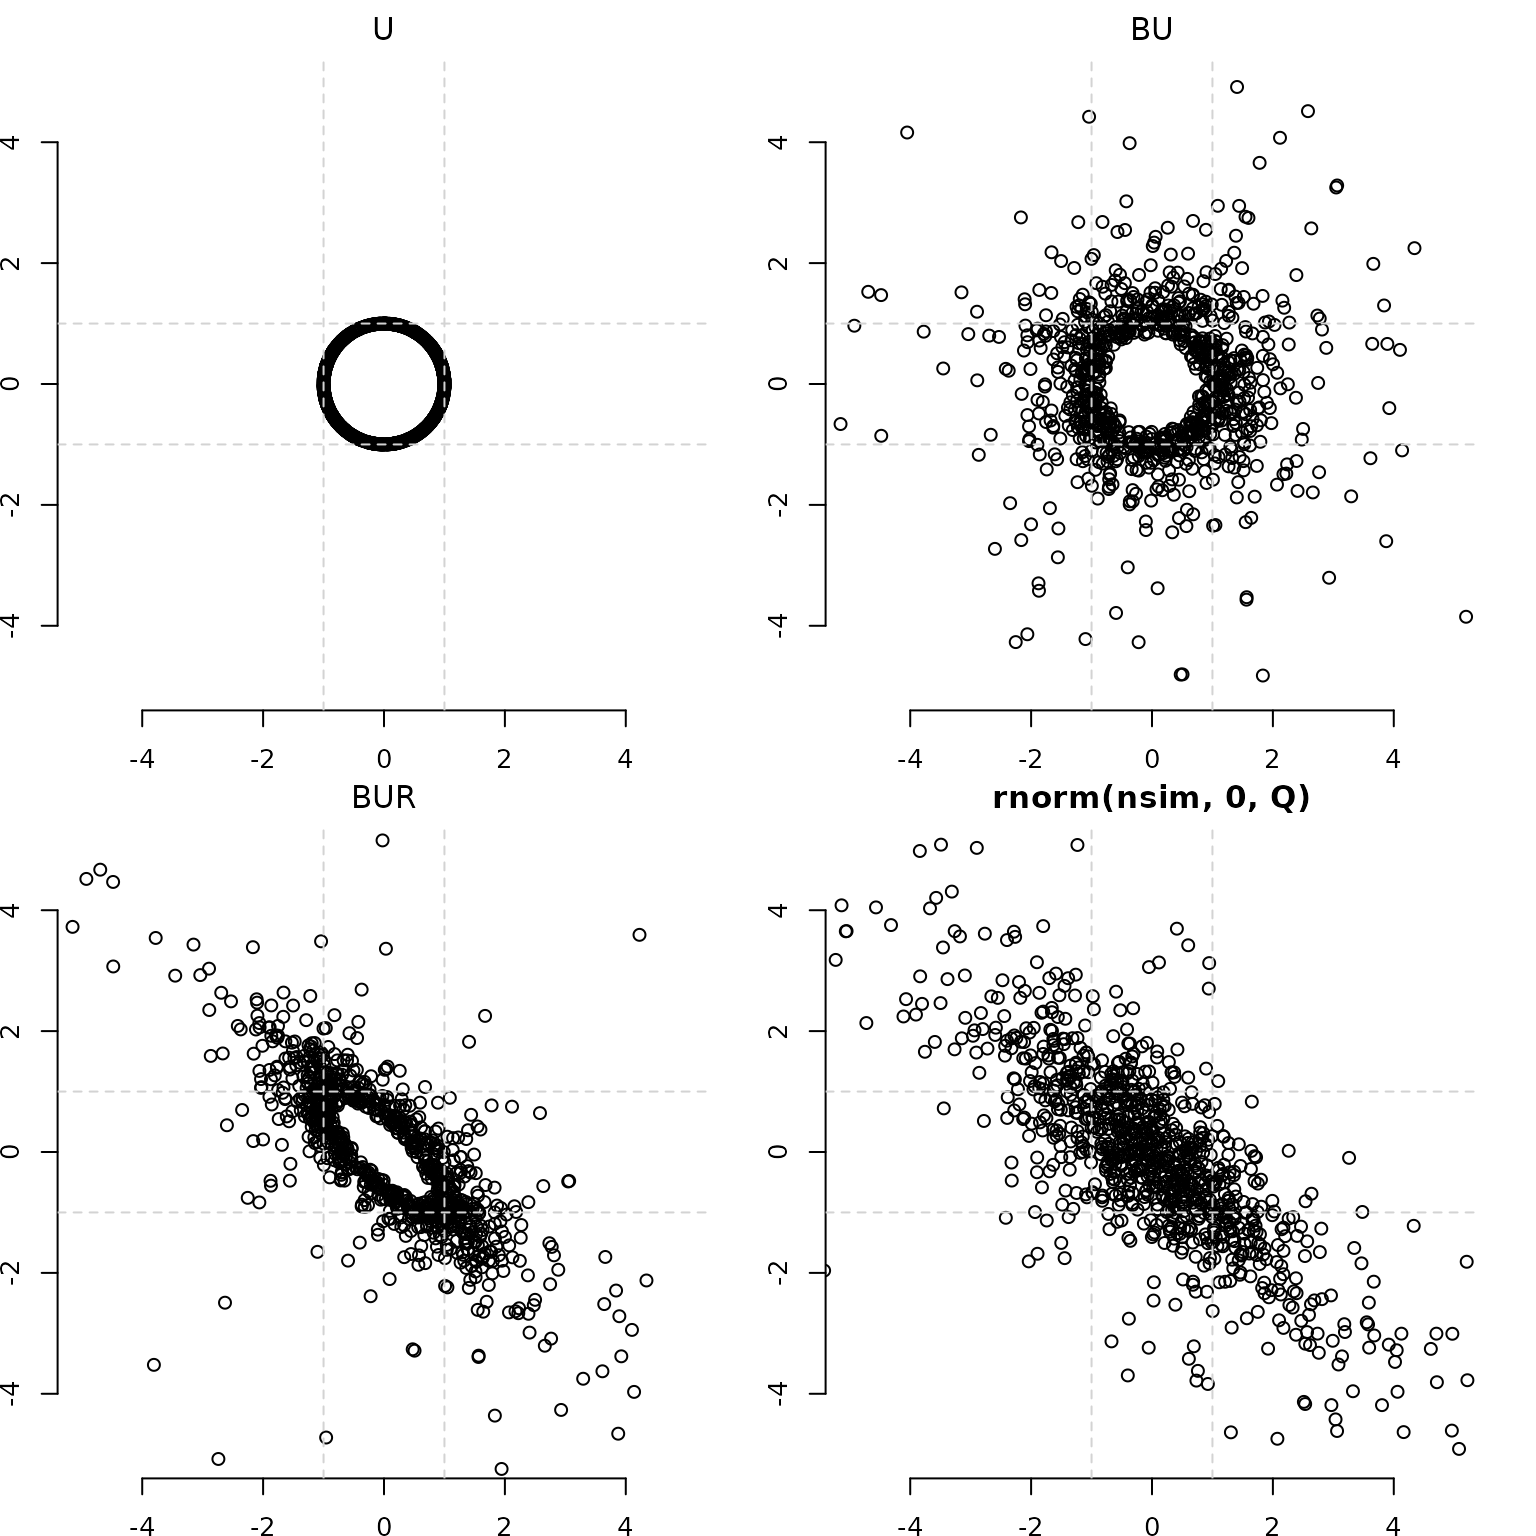
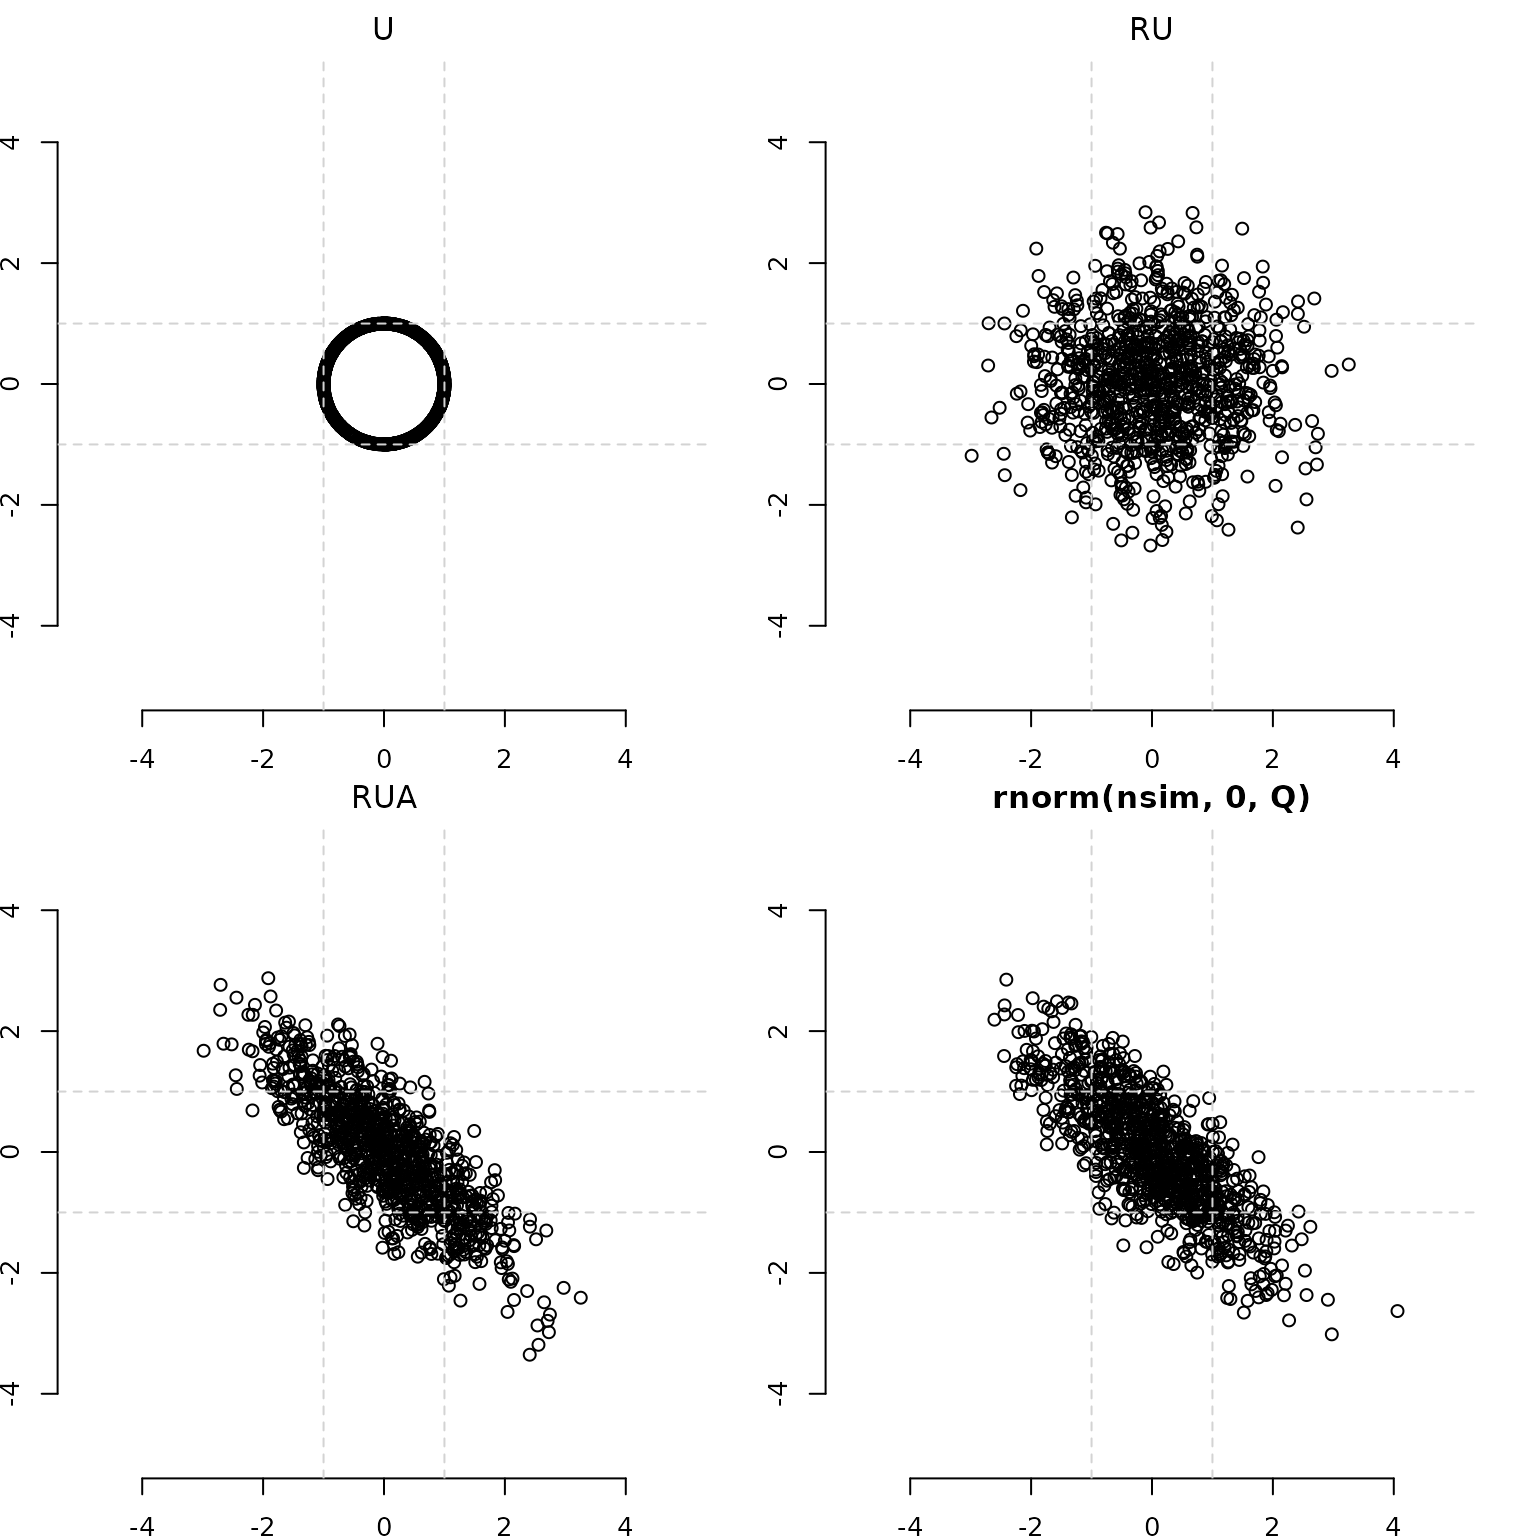
Deploying to gh-pages from @ swihart/mvpd@4e4889bfcb588e43ef75f660649b746a2501ddb2 🚀

diff --git a/articles/intro1.html b/articles/intro1.html
@@ -74,23 +74,20 @@ End with a Bivariate Normal.</h3>
 <ul>
 <li>U is a <code>n x 2</code> matrix containing n random draws from the
 uniform circle.</li>
-<li>UA is the result of the matrix multiplication between
-<code>n x 2</code> U and <code>2 x 2</code> A, the Cholesky
+<li>When R
+<math display="inline" xmlns="http://www.w3.org/1998/Math/MathML"><semantics><mrow><mo>∼</mo><mi>χ</mi></mrow><annotation encoding="application/x-tex">\sim \chi</annotation></semantics></math>(df=2)
+distribution, RU is a roughly spherical scatterplot</li>
+<li>RUA is the result of the matrix multiplication between
+<code>n x 2</code> RU and <code>2 x 2</code> A, the Cholesky
 decomposition of a <code>2x2</code> matrix Q.
 <ul>
 <li>A makes a circle (U) into an ellipse (UA)</li>
 <li>A can be thought of as a “square root” of a matrix. A’A = Q.</li>
 </ul>
 </li>
-<li>When R
-<math display="inline" xmlns="http://www.w3.org/1998/Math/MathML"><semantics><mrow><mo>∼</mo><mi>χ</mi></mrow><annotation encoding="application/x-tex">\sim \chi</annotation></semantics></math>(df=2)
-distribution, RUA is the bivariate normal distribution G(0,Q),
-Equivalently
-<ul>
+<li>RUA is the bivariate normal distribution G(0,Q), Equivalently</li>
 <li>
 <code>mvpd</code> uses G for Gaussian</li>
-</ul>
-</li>
 </ul>
 <!-- Graveyard / density of code? --><p><!-- you used this to  trouble shoot the RNG problem -->
 <!-- ultimately found in libstable4u --></p>

diff --git a/articles/deep_dive_kolm.html b/articles/deep_dive_kolm.html
@@ -341,7 +341,7 @@ the denominators, and then take the square root of that sum.</p>
 <span><span class="va">rkdraw</span> <span class="op">&lt;-</span> <span class="fu"><a href="../reference/rkolm.html">rkolm</a></span><span class="op">(</span><span class="fl">5e4</span>, nterms<span class="op">=</span><span class="fl">5e2</span><span class="op">)</span></span>
 <span><span class="va">end</span> <span class="op">&lt;-</span> <span class="fu"><a href="https://rdrr.io/r/base/Sys.time.html" class="external-link">Sys.time</a></span><span class="op">(</span><span class="op">)</span></span>
 <span><span class="va">end</span><span class="op">-</span><span class="va">beg</span></span>
-<span><span class="co">#&gt; Time difference of 0.8660669 secs</span></span>
+<span><span class="co">#&gt; Time difference of 0.8614016 secs</span></span>
 <span></span>
 <span><span class="co">## Expected value</span></span>
 <span><span class="fu"><a href="https://rdrr.io/r/base/print.html" class="external-link">print</a></span><span class="op">(</span><span class="fu"><a href="https://rdrr.io/r/base/matrix.html" class="external-link">matrix</a></span><span class="op">(</span><span class="fu"><a href="https://rdrr.io/r/base/c.html" class="external-link">c</a></span><span class="op">(</span></span>

diff --git a/articles/intro1.md b/articles/intro1.md
@@ -4,10 +4,11 @@
 
 - U is a `n x 2` matrix containing n random draws from the uniform
   circle.
-- UA is the result of the matrix multiplication between `n x 2` U and
+- When R $\sim \chi$(df=2) distribution, RU is a roughly spherical
+  scatterplot
+- RUA is the result of the matrix multiplication between `n x 2` RU and
   `2 x 2` A, the Cholesky decomposition of a `2x2` matrix Q.
   - A makes a circle (U) into an ellipse (UA)
   - A can be thought of as a “square root” of a matrix. A’A = Q.
-- When R $\sim \chi$(df=2) distribution, RUA is the bivariate normal
-  distribution G(0,Q), Equivalently
-  - `mvpd` uses G for Gaussian
+- RUA is the bivariate normal distribution G(0,Q), Equivalently
+- `mvpd` uses G for Gaussian

diff --git a/articles/deep_dive_kolm.md b/articles/deep_dive_kolm.md
@@ -238,7 +238,7 @@ beg <- Sys.time()
 rkdraw <- rkolm(5e4, nterms=5e2)
 end <- Sys.time()
 end-beg
-#> Time difference of 0.8660669 secs
+#> Time difference of 0.8614016 secs
 
 ## Expected value
 print(matrix(c(
